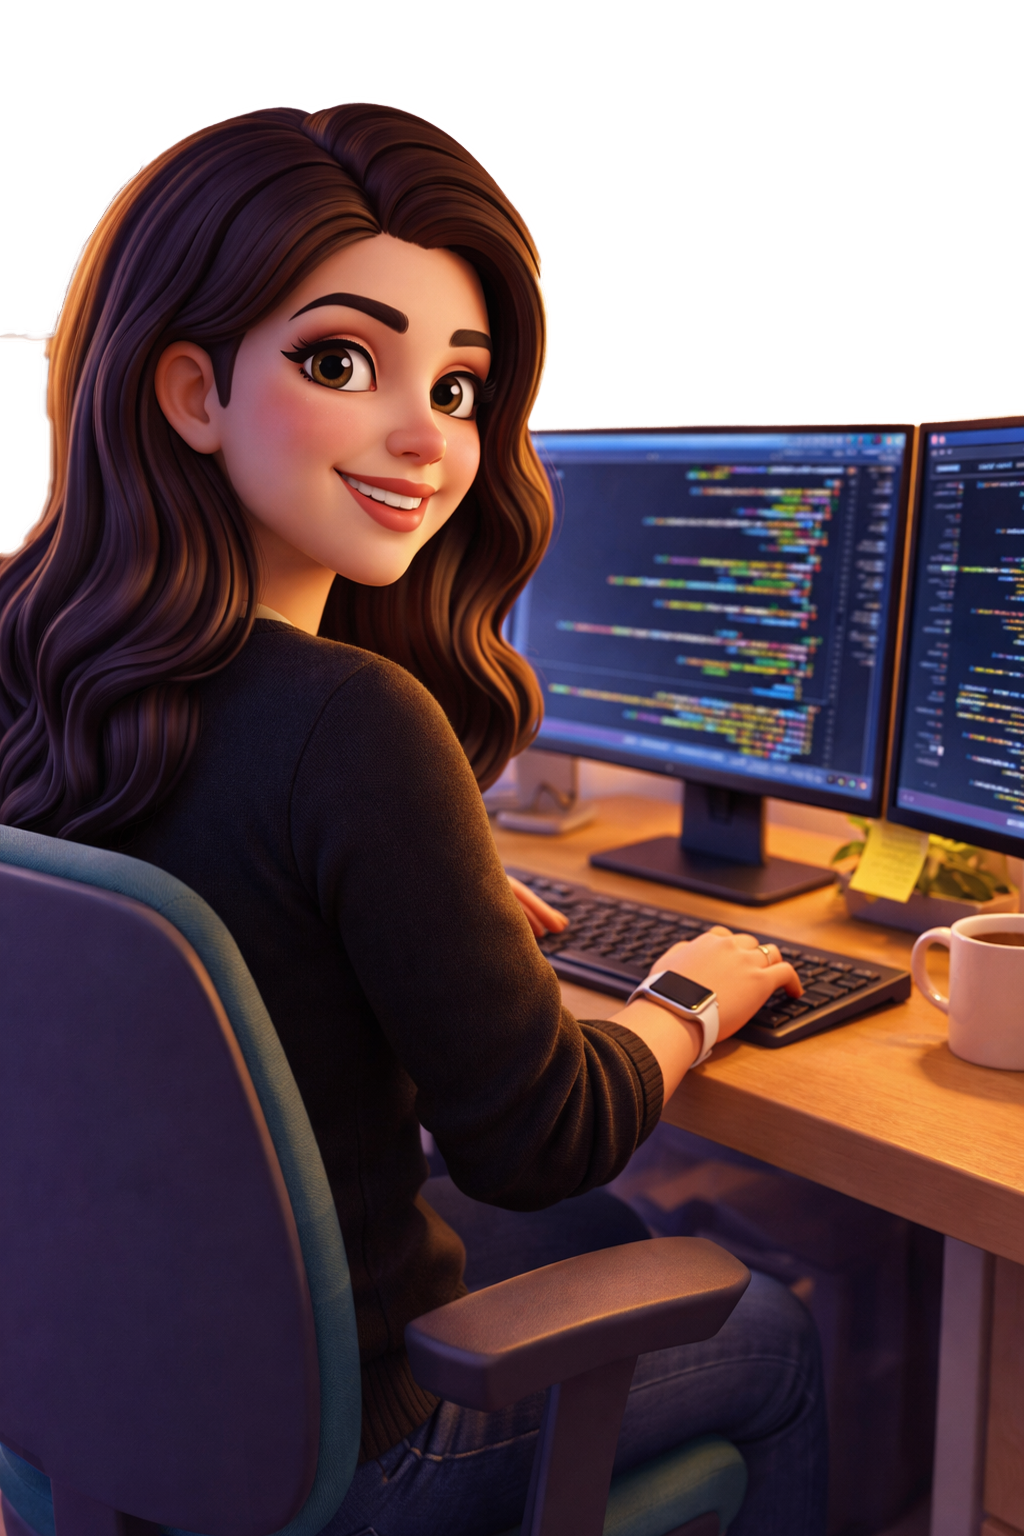
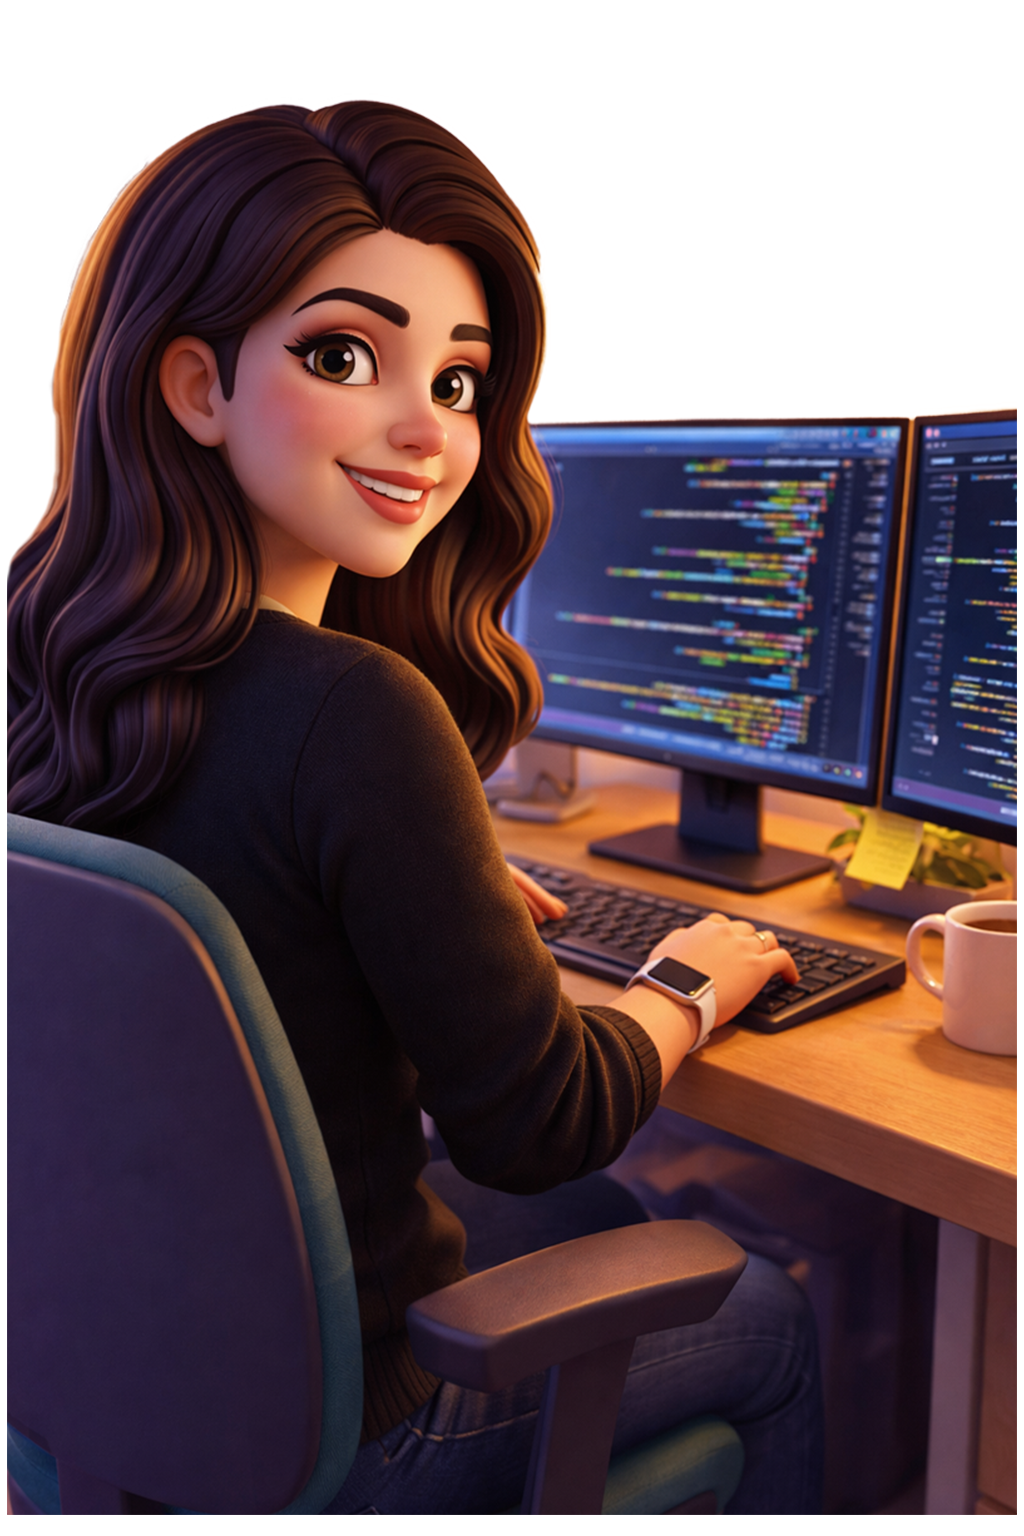
I added images components to each page

Changed region(s): [[0.0, 0.0625, 1.0, 1.0], [0.2188, 0.0625, 0.3125, 0.0938]]

diff --git a/landing_particles/app/(routes)/work-experience/page.tsx b/landing_particles/app/(routes)/work-experience/page.tsx
@@ -1,15 +1,42 @@
 import TransitionPage from "@/components/transition-page"
 import ContainerPage from "@/components/container"
-import Image from "next/image"
 
+
+import { dataWorkExperience } from "@/data"
+import AvatarWorkExperience from "@/components/avatar-work-experience"
 const Projects = () => {
     return(
         <>
             <TransitionPage />
             <ContainerPage>
-                <h1 className="text-2xl leading-tight text-center md:text-left md:text-5xl md:mt-10">Mi trayectoria <span className="font-bold text-secondary">profesional</span></h1>
-                <Image src="/avatar-1.png" width={250} height={250} className="flex" alt="Image avatar" />
-                
+                <h1 className="text-2xl leading-tight text-center md:text-left md:text-5xl md:mt-10">Mi experiencia <span className="font-bold text-secondary">laboral</span></h1>
+                <AvatarWorkExperience />
+                <div className="flex flex-col justify-center divide-y divide-slate-200">
+                    <div className="w-full max-w-3xl mx-auto md:pb-40 md:pt-20">
+                        <div className="-my-6">
+                            {dataWorkExperience.map((data) => (
+                                <div key={data.id} className="relative py-6 pl-8 sm:pl-32 group">
+                                    <div>
+                                    <div className="flex gap-4 mb-3">
+                                        <h3 className="mb-1 text-2xl font-bold sm:mb-0">{data.title}</h3>
+                                        <div className="flex flex-col">
+                                            <span className="text-sm font-semibold">Desde</span>
+                                            <time className="inline-flex items-center justify-center text-xs font-semibold uppercase w-20 h-6 text-emerald-600 bg-emerald-100 rounded-full">{data.from}</time>
+                                        </div>
+                                        <div className="flex flex-col">
+                                            <span className="text-sm font-semibold">Hasta</span>
+                                            <time className="inline-flex items-center justify-center text-xs font-semibold uppercase w-20 h-6 text-emerald-600 bg-emerald-100 rounded-full">{data.to}</time>
+                                        </div>
+
+                                    </div>
+                                    </div>
+                                    <div className="text-xl font-bold text-gray-400">{data.subtitle}</div>
+                                    <div className="text-slate-400">{data.description}</div>
+                                </div>
+                            ))}
+                        </div>
+                    </div>
+                </div>
             </ContainerPage>
         </>
     )

diff --git a/landing_particles/app/(routes)/about-me/page.tsx b/landing_particles/app/(routes)/about-me/page.tsx
@@ -1,13 +1,13 @@
 import TransitionPage from "@/components/transition-page"
 import ContainerPage from "@/components/container"
-import Image from "next/image";
+import ImageAboutMe from "@/components/image-about-me"
 
 const AboutMe = () => {
     return(
         <>
             <TransitionPage />
             <ContainerPage>
-                <Image src="/portfolio.png" width={250} height={250} className="flex" alt="Image avatar" />
+                <ImageAboutMe/>
                 <p></p>
             </ContainerPage>
         </>

diff --git a/landing_particles/app/(routes)/projects/page.tsx b/landing_particles/app/(routes)/projects/page.tsx
@@ -1,13 +1,14 @@
 import TransitionPage from "@/components/transition-page"
 import ContainerPage from "@/components/container"
-import Image from "next/image"
+import AvatarProjects from "@/components/avatar-projects"
+
 
 const Projects = () => {
     return(
         <>
             <TransitionPage />
             <ContainerPage>
-                <Image src="/avatar-2.png" width={350} height={350} alt="Image avatar" />
+                <AvatarProjects />
             </ContainerPage>
         </>
     )

diff --git a/landing_particles/app/(routes)/contact/page.tsx b/landing_particles/app/(routes)/contact/page.tsx
@@ -1,13 +1,13 @@
 import TransitionPage from "@/components/transition-page"
 import ContainerPage from "@/components/container"
-import Image from "next/image"
+import AvatarContact from "@/components/avatar-contact"
 
 const Contact = () => {
     return(
         <>
             <TransitionPage />
             <ContainerPage>
-                <Image src="/avatar-works.png" width={250} height={250} alt="Image avatar" />
+                <AvatarContact />
             </ContainerPage>
         </>
     )

diff --git a/landing_particles/components/image-about-me.tsx b/landing_particles/components/image-about-me.tsx
@@ -1,0 +1,15 @@
+import Image from "next/image"
+import MotionTransition from "./transition-component"
+
+const ImageAboutMe = () => {
+    return (
+        <div>
+            <MotionTransition position="bottom">
+                <Image src="/portfolio.png" width={250} height={250} className="flex" alt="Image avatar" />
+            </MotionTransition>
+        </div>
+
+    )
+}
+
+export default ImageAboutMe

diff --git a/landing_particles/components/avatar-work-experience.tsx b/landing_particles/components/avatar-work-experience.tsx
@@ -1,0 +1,12 @@
+import MotionTransition from "./transition-component"
+import Image from "next/image";
+
+const AvatarWorkExperience = () => {
+    return(
+        <MotionTransition position="bottom">
+            <Image src="/avatar-1.png" width={350} height={350} alt="Image avatar" />
+        </MotionTransition>
+    )
+}
+
+export default AvatarWorkExperience

diff --git a/landing_particles/components/avatar-contact.tsx b/landing_particles/components/avatar-contact.tsx
@@ -1,0 +1,12 @@
+import MotionTransition from "./transition-component"
+import Image from "next/image";
+
+const AvatarContact = () => {
+    return(
+        <MotionTransition position="bottom">
+            <Image src="/avatar-works.png" width={350} height={350} alt="Image avatar" />
+        </MotionTransition>
+    )
+}
+
+export default AvatarContact

diff --git a/landing_particles/components/avatar-projects.tsx b/landing_particles/components/avatar-projects.tsx
@@ -1,0 +1,12 @@
+import MotionTransition from "./transition-component"
+import Image from "next/image";
+
+const AvatarProjects = () => {
+    return(
+        <MotionTransition position="bottom">
+            <Image src="/avatar-2.png" width={350} height={350} alt="Image avatar" />
+        </MotionTransition>
+    )
+}
+
+export default AvatarProjects;
